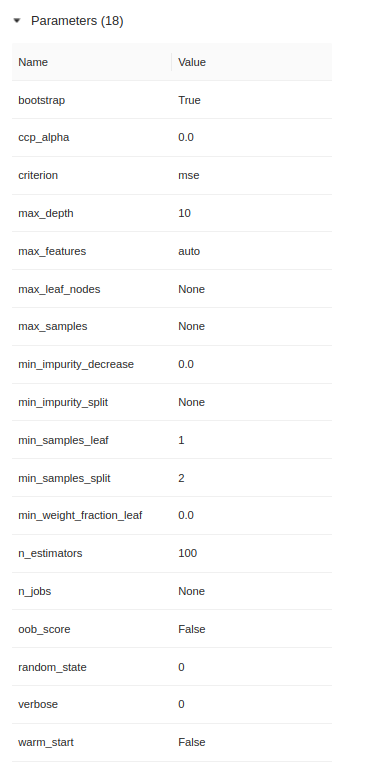
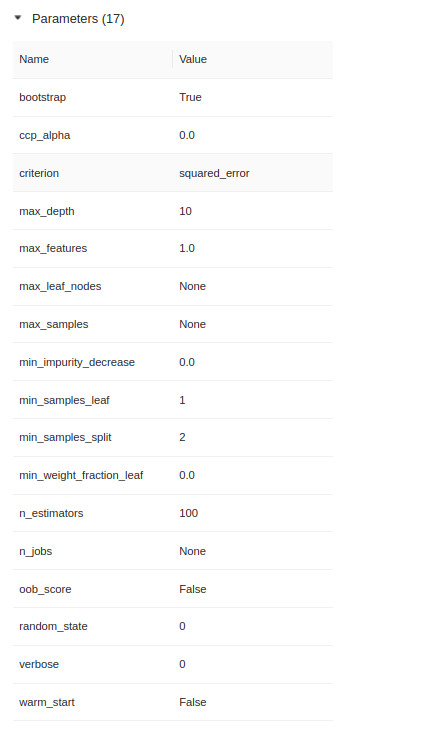
fix homework-02

diff --git a/02-experiment-tracking/README.md b/02-experiment-tracking/README.md
@@ -49,7 +49,7 @@ $ mlflow ui
 
 ![Autolog Experiment](images/experiment_autolog.png)
 
-The parameters register with `autolog` are 18:
+The parameters register with `autolog` are 17 (using an newer sklearn version):
 
 ![Autolog Paramaters](images/how_many_parameters.png)
 
